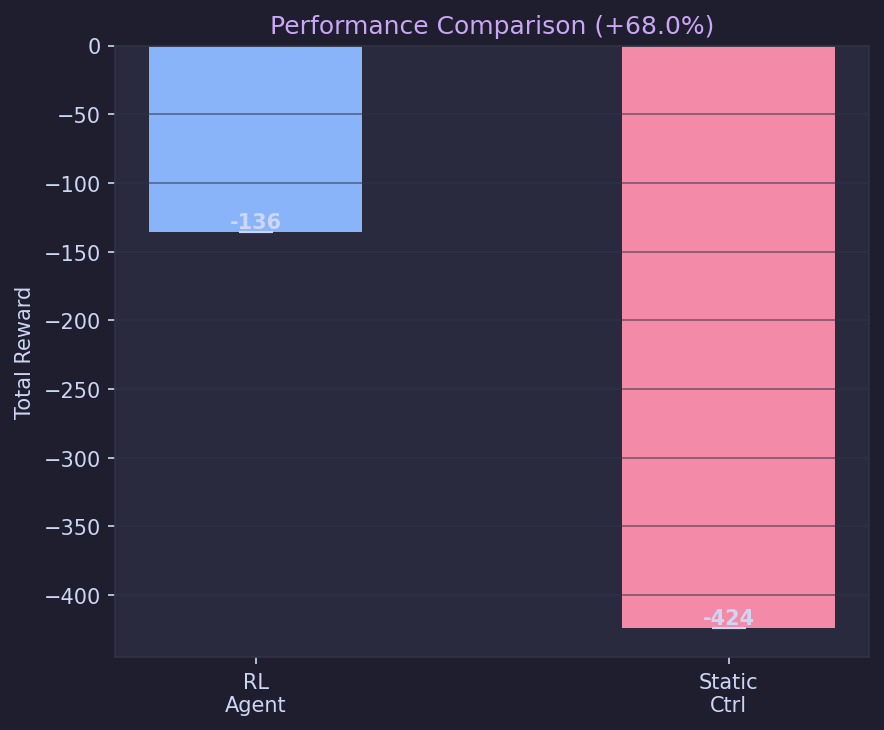
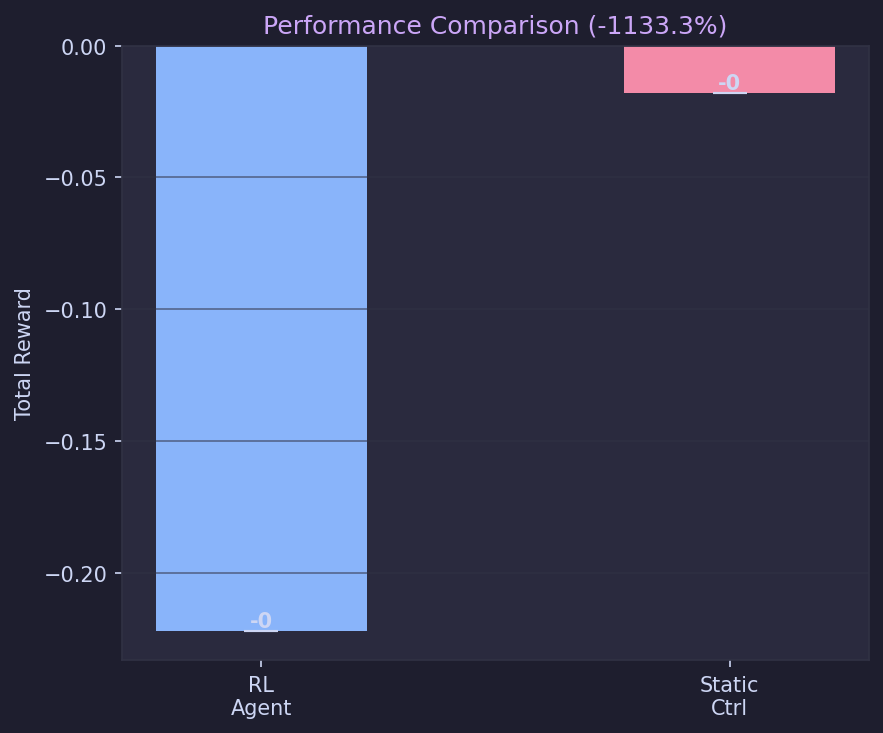
add delta reward mode

diff --git a/env/traffic_env.py b/env/traffic_env.py
@@ -48,25 +48,33 @@ except ImportError as e:
 
 BERNOULLI_ROUTE_FILE = "bernoulli.rou.xml"
 
-def compute_reward(lanes: list, left_lanes: list, return_components: bool = False) -> float | tuple[float, float, float]:
+def compute_reward(lanes: list, left_lanes: list, mode: str = "square", prev_halt_count: float = 0.0, return_components: bool = False) -> float | tuple[float, float, float, float]:
     """
-    Standardized reward function based on the square of halting vehicles.
+    Standardized reward function.
+    Modes:
+      - "square": sum of squared halting vehicles (negative).
+      - "delta": prev_halt_count - current_halt_count.
     """
     reward = 0.0
     count_part_total = 0.0
+    current_halt_count = 0.0
 
     for l in lanes:
         pending_count = len(traci.lane.getPendingVehicles(l))
         halting_count = traci.lane.getLastStepHaltingNumber(l) + pending_count
-        count_val = (halting_count)** 2
+        current_halt_count += halting_count
         
-        reward -= count_val
-        count_part_total -= count_val
+        if mode == "square":
+            count_val = (halting_count)** 2
+            reward -= count_val
+            count_part_total -= count_val
 
-    # reward = -np.sqrt(max(0, -reward))
+    if mode == "delta":
+        reward = prev_halt_count - current_halt_count
+        count_part_total = reward
 
     if return_components:
-        return reward, 0.0, count_part_total
+        return reward, 0.0, count_part_total, current_halt_count
     return reward
 
 
@@ -87,7 +95,8 @@ class TrafficEnv:
     def __init__(self, sumo_cfg: str | None = None, use_gui: bool = False, port: int = 8813,
                  bernoulli_p: float = 0.05,
                  eval_mode: bool = False, drain_step_cap: int = 200,
-                 scenario: str = "uniform", max_steps: int = config.MAX_STEPS):
+                 scenario: str = "uniform", max_steps: int = config.MAX_STEPS,
+                 reward_mode: str = config.REWARD_MODE):
         """
         SUMO Traffic Signal Control Environment.
         """
@@ -100,6 +109,7 @@ class TrafficEnv:
         self.drain_step_cap = drain_step_cap
         self.max_steps = max_steps
         self.min_green = config.MIN_GREEN
+        self.reward_mode = reward_mode
         
         if scenario not in self.SCENARIOS:
             raise ValueError(f"scenario must be one of {self.SCENARIOS}, got {scenario!r}")
@@ -111,6 +121,7 @@ class TrafficEnv:
         self._green_idx = 0
         self._cum_departed = 0
         self._cum_arrived = 0
+        self._prev_halt_count = 0.0
 
     @property
     def state_size(self) -> int:
@@ -256,6 +267,10 @@ class TrafficEnv:
         # Short warm-up
         for _ in range(5):
             traci.simulationStep()
+        
+        # Initialize prev count for delta reward
+        self._prev_halt_count = sum(traci.lane.getLastStepHaltingNumber(l) + len(traci.lane.getPendingVehicles(l)) for l in self.ALL_LANES)
+        
         return self._get_state()
 
     def step(self, action: int):
@@ -284,9 +299,12 @@ class TrafficEnv:
             self._cum_arrived += traci.simulation.getArrivedNumber()
 
         # Calculate reward and its components
-        reward, wait_sum, count_sum = compute_reward(
-            self.ALL_LANES, self.LEFT_LANES, return_components=True
+        reward, wait_sum, count_sum, current_halt = compute_reward(
+            self.ALL_LANES, self.LEFT_LANES, 
+            mode=self.reward_mode, prev_halt_count=self._prev_halt_count,
+            return_components=True
         )
+        self._prev_halt_count = current_halt
 
         # Apply switching penalty to "let the agent know" that switching is costly
         if switch_occurred:

diff --git a/evaluate.py b/evaluate.py
@@ -38,23 +38,28 @@ def run_rl(model_path: str, use_gui: bool, num_runs: int,
         total_reward = 0.0
         step_idx = 0
         while True:
+            # Store state and time before taking action
+            current_state = state
+            current_sim_time = traci.simulation.getTime()
+            
             action = agent.select_action(state, training=False)
             
-            # Store normalized state and chosen action
+            state, reward, done, info = env.step(action)
+            
             history.append({
                 "run": run,
                 "step": step_idx,
-                "sim_time": traci.simulation.getTime(),
-                "q0": f"{state[0]:.4f}",
-                "q1": f"{state[1]:.4f}",
-                "q2": f"{state[2]:.4f}",
-                "q3": f"{state[3]:.4f}",
-                "phase": int(state[4]),
-                "time_norm": f"{state[5]:.4f}",
-                "action": int(action)
+                "sim_time": current_sim_time,
+                "q0": f"{current_state[0]:.4f}",
+                "q1": f"{current_state[1]:.4f}",
+                "q2": f"{current_state[2]:.4f}",
+                "q3": f"{current_state[3]:.4f}",
+                "phase": int(current_state[4]),
+                "time_norm": f"{current_state[5]:.4f}",
+                "action": int(action),
+                "reward": f"{reward:.4f}"
             })
 
-            state, reward, done, info = env.step(action)
             total_reward += reward * config.REWARD_SCALE
             step_idx += 1
             
@@ -128,12 +133,21 @@ def run_static(use_gui: bool, num_runs: int,
         cum_dep = 0
         cum_arr = 0
         
+        # Initialize prev count for reward modes like 'delta'
+        prev_halt_count = sum(traci.lane.getLastStepHaltingNumber(l) + len(traci.lane.getPendingVehicles(l)) for l in lanes)
+
         while traci.simulation.getTime() < config.EVAL_DURATION:
             traci.simulationStep()
             cum_dep += traci.simulation.getDepartedNumber()
             cum_arr += traci.simulation.getArrivedNumber()
             
-            step_reward = compute_reward(lanes, left_lanes)
+            # Use current config for reward mode
+            step_reward, _, _, current_halt = compute_reward(
+                lanes, left_lanes, mode=config.REWARD_MODE,
+                prev_halt_count=prev_halt_count, return_components=True
+            )
+            prev_halt_count = current_halt
+            
             total_reward += step_reward * config.REWARD_SCALE
 
         traci.close()

diff --git a/scratch/plot_phases.py b/scratch/plot_phases.py
@@ -1,0 +1,54 @@
+import pandas as pd
+import matplotlib.pyplot as plt
+import os
+import glob
+
+def plot_traffic_phases(csv_path):
+    df = pd.read_csv(csv_path)
+    
+    # Create the figure
+    plt.figure(figsize=(12, 8))
+    
+    phases = df['phase'].unique()
+    phases.sort()
+    
+    # We want to show 1 for the lane group in green, 0 otherwise
+    # Since there are 4 groups, let's offset them slightly for visibility if needed,
+    # or use subplots. Subplots are cleaner.
+    
+    fig, axes = plt.subplots(4, 1, figsize=(12, 10), sharex=True)
+    group_names = [
+        "Group 0: N-S Straight + Right",
+        "Group 1: E-W Straight + Right",
+        "Group 2: N-S Left Turn",
+        "Group 3: E-W Left Turn"
+    ]
+    
+    group_colors = ['red', 'blue' ,'green', 'orange']
+
+    for i in range(4):
+        # 1 if phase == i, else 0
+        active = (df['phase'] == i).astype(int)
+        axes[i].step(df['sim_time'], active, where='post', color=group_colors[i], linewidth=2)
+        axes[i].set_ylabel("Status (0/1)")
+        axes[i].set_title(group_names[i])
+        axes[i].set_ylim(-0.1, 1.1)
+        axes[i].grid(True, alpha=0.3)
+    
+    plt.xlabel("Simulation Time (s)")
+    plt.tight_layout()
+    
+    # Save the plot
+    output_path = "traffic_phases_plot.png"
+    plt.savefig(output_path)
+    print(f"Plot saved to {output_path}")
+
+if __name__ == "__main__":
+    # Find the most recent eval log
+    log_files = glob.glob("logs/eval_steps_*.csv")
+    if not log_files:
+        print("No evaluation logs found in logs/")
+    else:
+        latest_log = max(log_files, key=os.path.getmtime)
+        print(f"Plotting phases from: {latest_log}")
+        plot_traffic_phases(latest_log)

diff --git a/config.py b/config.py
@@ -9,7 +9,8 @@ LOGS_DIR = os.path.join(BASE_DIR, "logs")
 
 
 # -- RL Settings --
-REWARD_SCALE = 1e-3
+REWARD_SCALE = 1
+REWARD_MODE = "delta"  # "square" or "delta"
 
 # -- Environment Settings --
 STEP_SIZE = 1
